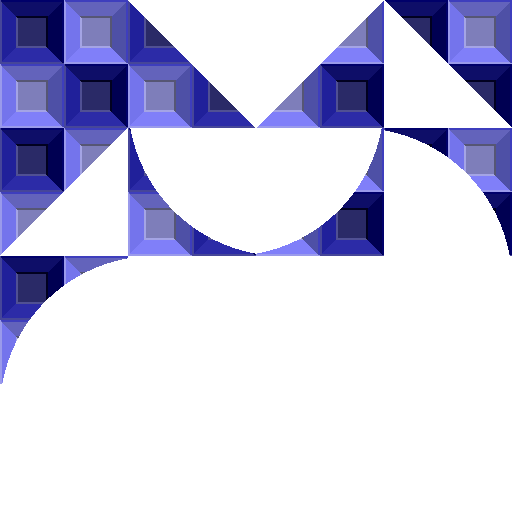
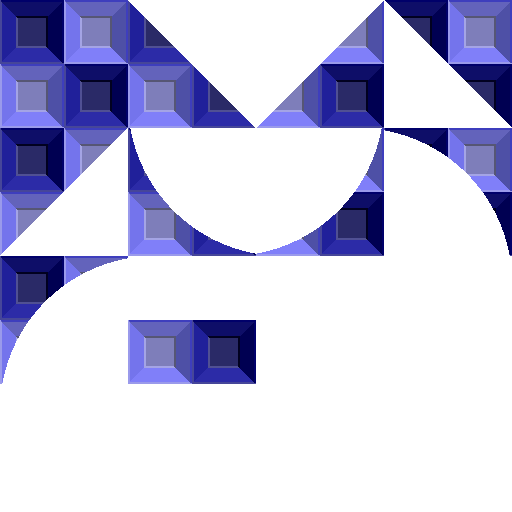
Small changes to R12 tiles and layout

Changed region(s): [[0.25, 0.625, 0.5, 0.75]]

diff --git a/BasicPlatformer/assets/levels/r12/tiles.tsx b/BasicPlatformer/assets/levels/r12/tiles.tsx
@@ -136,16 +136,7 @@
  </tile>
  <tile id="9">
   <objectgroup draworder="index" id="2">
-   <object id="1" x="15" y="26.6667" width="44.6667" height="44.6667"/>
-   <object id="2" x="74.6667" y="19" width="41.6667" height="49.3333">
-    <ellipse/>
-   </object>
-   <object id="3" x="21.6667" y="101">
-    <point/>
-   </object>
-   <object id="4" x="48.6667" y="93.6667">
-    <polygon points="0,0 33.6667,-9.66667 31.3333,10.3333"/>
-   </object>
+   <object id="1" x="0" y="64" width="128" height="64"/>
   </objectgroup>
  </tile>
 </tileset>
